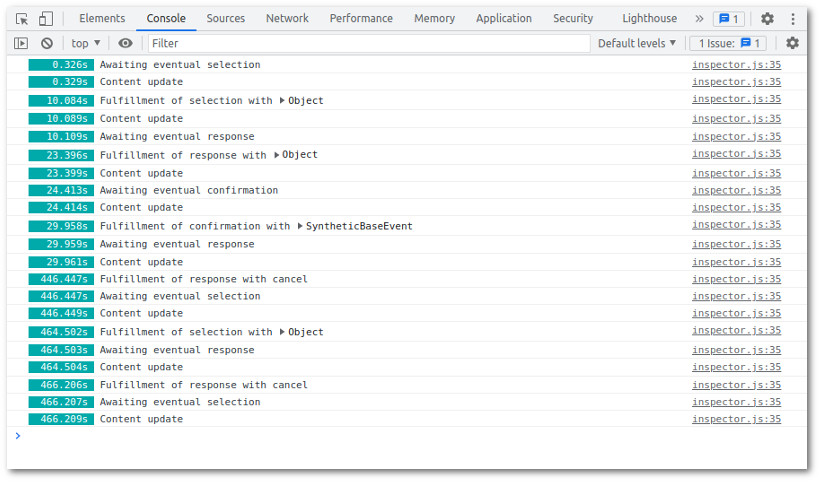
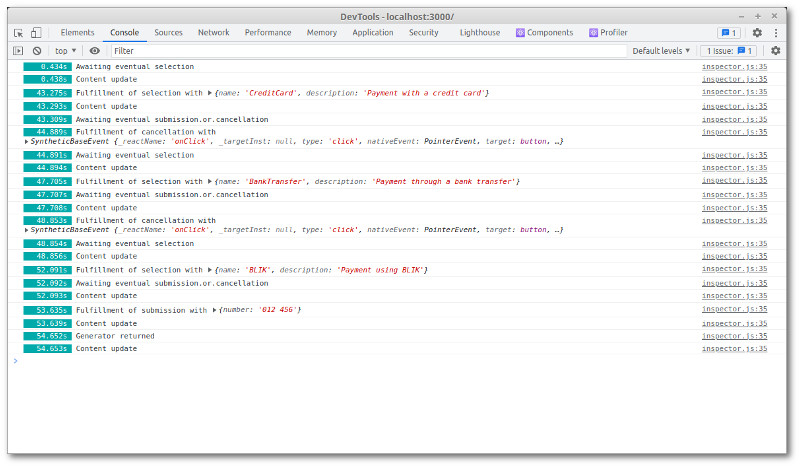
Updated payment example (#114).

diff --git a/examples/payment/src/PaymentPage.js b/examples/payment/src/PaymentPage.js
@@ -23,21 +23,22 @@ export function PaymentPage() {
     while (!success) {
       if (!method) {
         yield <PaymentSelectionScreen methods={methods} onSelect={on.selection} />;
-        method = await eventual.selection;
+        const { selection } = await eventual.selection;
+        method = selection;
       }
       const PaymentMethod = forms[method.name];
-      yield <PaymentMethod onSubmit={on.response} onCancel={on.response.cancel} />;
+      yield <PaymentMethod onSubmit={on.submission} onCancel={on.cancellation} />;
       const { PaymentProcessingScreen } = await import('./PaymentProcessingScreen.js');
       // wait for user to submit the form or hit cancel button
-      const response = await eventual.response;
-      if (response === 'cancel') {
+      const { submission } = await eventual.submission.or.cancellation;
+      if (!submission) {
         // go back to selection screen
         method = null;
         continue;
       }
       yield <PaymentProcessingScreen method={method} />;
       try {
-        const payment = await processPayment(method, response);
+        const payment = await processPayment(method, submission);
         const { PaymentCompleteScreen } = await import('./PaymentCompleteScreen.js');
         yield <PaymentCompleteScreen payment={payment} />;
         success = true;

diff --git a/examples/payment/src/PaymentMethodBankTransfer.js b/examples/payment/src/PaymentMethodBankTransfer.js
@@ -27,7 +27,7 @@ export function PaymentMethodBankTransfer({ onSubmit, onCancel }) {
       <footer>
         <button onClick={() => onSubmit({ routingNumber, accountNumber, name })}>OK</button>
         {' '}
-        <button onClick={() => onCancel()}>Cancel</button>
+        <button onClick={onCancel}>Cancel</button>
       </footer>
     </div>
   );

diff --git a/examples/payment/src/PaymentMethodCreditCard.js b/examples/payment/src/PaymentMethodCreditCard.js
@@ -27,7 +27,7 @@ export function PaymentMethodCreditCard({ onSubmit, onCancel }) {
       <footer>
         <button onClick={() => onSubmit({ number, name, expiration })}>OK</button>
         {' '}
-        <button onClick={() => onCancel()}>Cancel</button>
+        <button onClick={onCancel}>Cancel</button>
       </footer>
     </div>
   );

diff --git a/examples/payment/src/PaymentMethodBLIK.js b/examples/payment/src/PaymentMethodBLIK.js
@@ -15,7 +15,7 @@ export function PaymentMethodBLIK({ onSubmit, onCancel }) {
       <footer>
         <button onClick={() => onSubmit({ number })}>OK</button>
         {' '}
-        <button onClick={() => onCancel()}>Cancel</button>
+        <button onClick={onCancel}>Cancel</button>
       </footer>
     </div>
   );

diff --git a/examples/payment/README.md b/examples/payment/README.md
@@ -66,7 +66,8 @@ Now we're ready to take down the fallback placeholder and show some real content
   while (!success) {
     if (!method) {
       yield <PaymentSelectionScreen methods={methods} onSelect={on.selection} />;
-      method = await eventual.selection;
+      const { selection } = await eventual.selection;
+      method = selection;
     }
 ```
 
@@ -99,39 +100,34 @@ you might have written in your first-year CS class:
 This style of programming is easier to understand since it's closer to how we humans communicate. Debugging is easier
 too, as the execution point doesn't jump all over the place.
 
-Anyway, let us move on. Now that the user has selected a method, we display the corresponding form, passing `on.response`
-as the `onSubmit` handler and `on.response.cancel` as the `onCancel` handler:
+Anyway, let us move on. Promises from the event manager return fulfillment value inside an object, with the name of
+the promise as the key. Doing so allows us to figure out which promise was fulfilled when there are multiple promises
+involved. In this case there's just one promise: `selection`. We pluck out the value and assign it to `method`.
+
+Alternatively, we could have used the following line instead:
+
+```js
+      method = await eventual.selection.value();
+```
+
+Now that the user has selected a method, we display the corresponding form, passing `on.submission`
+as the `onSubmit` handler and `on.cancellation` as the `onCancel` handler:
 
 ```js
   const PaymentMethod = forms[method.name];
-  yield <PaymentMethod onSubmit={on.response} onCancel={on.response.cancel} />;
+  yield <PaymentMethod onSubmit={on.submission} onCancel={on.cancellation} />;
   const { PaymentProcessingScreen } = await import('./PaymentProcessingScreen.js');
   // wait for user to submit the form or hit cancel button
-  const response = await eventual.response;
-  if (response === 'cancel') {
+  const { submission } = await eventual.submission.or.cancellation;
+  if (!submission) {
     // go back to selection screen
     method = null;
     continue;
   }
 ```
 
-The latter is syntactic sugar for `on.response.bind('cancel')`. When it's called, it fulfills the promise
-`eventual.response` with the string "cancel". If that's what we get then we know the user has clicked the cancel
-button and we respond by clearing `method` and restarting from the top of the loop.
-
-An alternative way to implement the logic above would be to await on a separate `cancel` promise:
-
-```js
-  yield <PaymentMethod onSubmit={on.response} onCancel={on.cancellation.bind(null)} />;
-  const { PaymentProcessingScreen } = await import('./PaymentProcessingScreen.js');
-  const response = await eventual.response.or.cancellation;
-  if (!response) {
-    method = null;
-    continue;
-  }
-```
-
-We would still use `bind`, so that we're not dependent on the form calling the handler with the right argument.
+Here we wait for two events: `submission` or `cancellation`. If the user didn't hit the submit button, then obviously
+he hit the other, in which case we clear `method` and start the loop from the top again. 
 
 While the user is filling the form, we use the occasion to load in the next screen. In theory, if the user types
 really really fast, he could submit a response before we start waiting for it. There're ways we can fix this.
@@ -142,7 +138,7 @@ Once we have the user response, we call a function to process the payment, putti
 ```js
 yield <PaymentProcessingScreen method={method} />;
 try {
-  const payment = await processPayment(method, response);
+  const payment = await processPayment(method, submission);
   const { PaymentCompleteScreen } = await import('./PaymentCompleteScreen.js');
   yield <PaymentCompleteScreen payment={payment} />;
   success = true;
